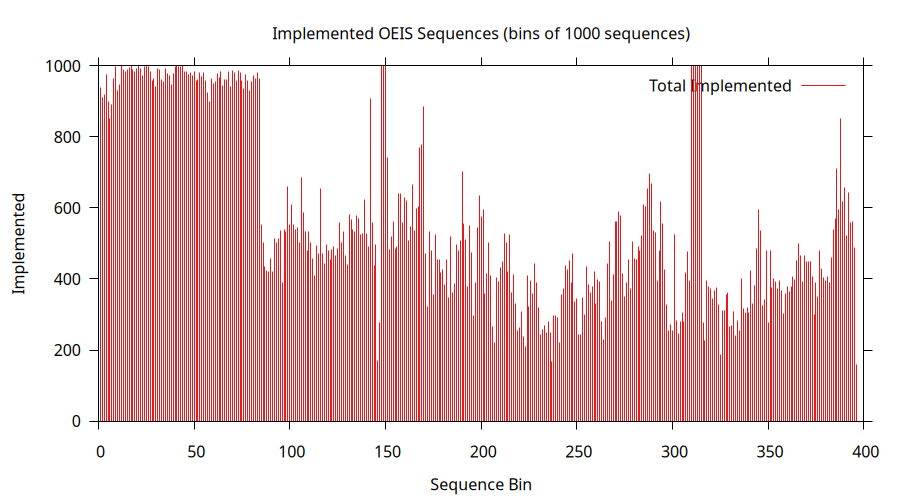
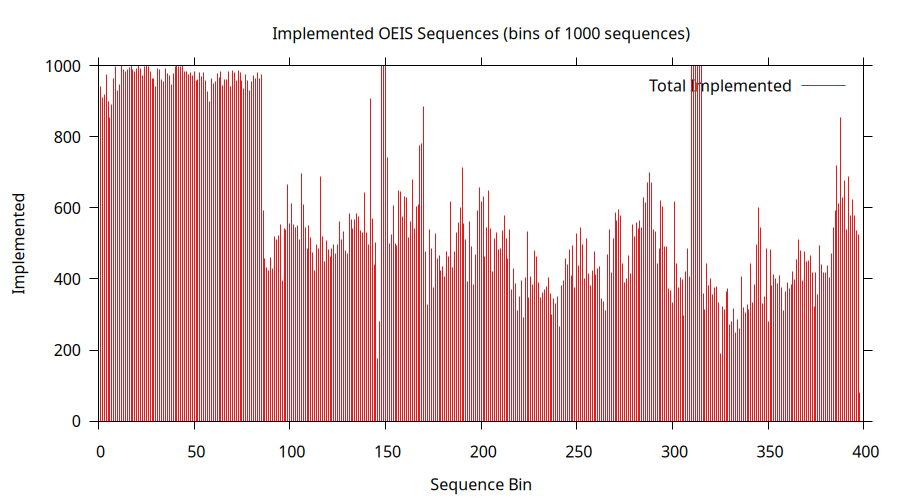
Sequences

diff --git a/src/irvine/oeis/a398/A398216.java b/src/irvine/oeis/a398/A398216.java
@@ -1,0 +1,20 @@
+package irvine.oeis.a398;
+
+import irvine.math.cr.CR;
+import irvine.math.cr.ComputableReals;
+import irvine.oeis.cons.DecimalExpansionSequence;
+
+/**
+ * A398216 allocated for Paolo Xausa.
+ * @author Sean A. Irvine
+ */
+public class A398216 extends DecimalExpansionSequence {
+
+  private static final CR PI8 = CR.PI.divide(8);
+
+  /** Construct the sequence. */
+  public A398216() {
+    super(0, ComputableReals.SINGLETON.acos(CR.TWO.add(CR.THREE.divide(CR.SQRT2)).subtract(PI8.cos().multiply(3)).subtract(PI8.sin())));
+  }
+}
+

diff --git a/src/irvine/oeis/a398/A398218.java b/src/irvine/oeis/a398/A398218.java
@@ -1,0 +1,18 @@
+package irvine.oeis.a398;
+
+import irvine.math.cr.CR;
+import irvine.math.cr.ComputableReals;
+import irvine.oeis.cons.DecimalExpansionSequence;
+
+/**
+ * A398218 allocated for Paolo Xausa.
+ * @author Sean A. Irvine
+ */
+public class A398218 extends DecimalExpansionSequence {
+
+  /** Construct the sequence. */
+  public A398218() {
+    super(1, ComputableReals.SINGLETON.acos(CR.FIVE.subtract(CR.SQRT2.multiply(6)).subtract(CR.SQRT2.multiply(79).add(130).sqrt().multiply(2)).divide(47)));
+  }
+}
+

diff --git a/src/irvine/oeis/a398/A398210.java b/src/irvine/oeis/a398/A398210.java
@@ -1,0 +1,18 @@
+package irvine.oeis.a398;
+
+import irvine.math.cr.CR;
+import irvine.math.polynomial.Polynomial;
+import irvine.oeis.cons.PolynomialRootExpansionSequence;
+
+/**
+ * A398210 allocated for Paolo Xausa.
+ * @author Sean A. Irvine
+ */
+public class A398210 extends PolynomialRootExpansionSequence {
+
+  /** Construct the sequence. */
+  public A398210() {
+    super(2, Polynomial.create(8192, 0, -2138112, 0, 79646976, 0, -26827200, 0, 6561), CR.valueOf(63), CR.valueOf(64));
+  }
+}
+

diff --git a/src/irvine/oeis/a398/A398211.java b/src/irvine/oeis/a398/A398211.java
@@ -1,0 +1,17 @@
+package irvine.oeis.a398;
+
+import irvine.math.cr.CR;
+import irvine.math.polynomial.Polynomial;
+import irvine.oeis.cons.PolynomialRootExpansionSequence;
+
+/**
+ * A398211 allocated for Paolo Xausa.
+ * @author Sean A. Irvine
+ */
+public class A398211 extends PolynomialRootExpansionSequence {
+
+  /** Construct the sequence. */
+  public A398211() {
+    super(2, Polynomial.create(-197132288, 0, 16777216, 0, 1404928, 0, -9216, 0, 1), CR.valueOf(95), CR.valueOf(96));
+  }
+}

diff --git a/src/irvine/oeis/a398/A398214.java b/src/irvine/oeis/a398/A398214.java
@@ -1,0 +1,17 @@
+package irvine.oeis.a398;
+
+import irvine.math.cr.CR;
+import irvine.math.polynomial.Polynomial;
+import irvine.oeis.cons.PolynomialRootExpansionSequence;
+
+/**
+ * A398214 allocated for Paolo Xausa.
+ * @author Sean A. Irvine
+ */
+public class A398214 extends PolynomialRootExpansionSequence {
+
+  /** Construct the sequence. */
+  public A398214() {
+    super(2, Polynomial.create(1, 0, -104, 0, 660, 0, -336, 0, 2), CR.valueOf(12), CR.valueOf(13));
+  }
+}

diff --git a/src/irvine/oeis/a398/A398212.java b/src/irvine/oeis/a398/A398212.java
@@ -1,0 +1,18 @@
+package irvine.oeis.a398;
+
+import irvine.math.cr.CR;
+import irvine.math.polynomial.Polynomial;
+import irvine.oeis.cons.PolynomialRootExpansionSequence;
+
+/**
+ * A398212 allocated for Paolo Xausa.
+ * @author Sean A. Irvine
+ */
+public class A398212 extends PolynomialRootExpansionSequence {
+
+  /** Construct the sequence. */
+  public A398212() {
+    super(1, Polynomial.create(-1, 0, 96, 0, 15040, 0, -101376, 0, 24064), CR.TWO, CR.THREE);
+  }
+}
+

diff --git a/src/irvine/oeis/a398/A398213.java b/src/irvine/oeis/a398/A398213.java
@@ -1,0 +1,18 @@
+package irvine.oeis.a398;
+
+import irvine.math.cr.CR;
+import irvine.math.polynomial.Polynomial;
+import irvine.oeis.cons.PolynomialRootExpansionSequence;
+
+/**
+ * A398213 allocated for Paolo Xausa.
+ * @author Sean A. Irvine
+ */
+public class A398213 extends PolynomialRootExpansionSequence {
+
+  /** Construct the sequence. */
+  public A398213() {
+    super(1, Polynomial.create(-1, 0, 32, 0, 768, 0, -2560, 0, 512), CR.TWO, CR.THREE);
+  }
+}
+

diff --git a/src/irvine/oeis/a398/A398215.java b/src/irvine/oeis/a398/A398215.java
@@ -1,0 +1,18 @@
+package irvine.oeis.a398;
+
+import irvine.math.cr.CR;
+import irvine.math.polynomial.Polynomial;
+import irvine.oeis.cons.PolynomialRootExpansionSequence;
+
+/**
+ * A398215 allocated for Paolo Xausa.
+ * @author Sean A. Irvine
+ */
+public class A398215 extends PolynomialRootExpansionSequence {
+
+  /** Construct the sequence. */
+  public A398215() {
+    super(1, Polynomial.create(1, -8, 20, -16, 2), CR.SIX, CR.SEVEN);
+  }
+}
+

diff --git a/src/irvine/oeis/a398/A398217.java b/src/irvine/oeis/a398/A398217.java
@@ -1,0 +1,17 @@
+package irvine.oeis.a398;
+
+import irvine.math.cr.CR;
+import irvine.math.cr.ComputableReals;
+import irvine.oeis.cons.DecimalExpansionSequence;
+
+/**
+ * A398217 allocated for Paolo Xausa.
+ * @author Sean A. Irvine
+ */
+public class A398217 extends DecimalExpansionSequence {
+
+  /** Construct the sequence. */
+  public A398217() {
+    super(1, ComputableReals.SINGLETON.acos(CR.HALF.subtract(CR.PI.divide(8).cos())));
+  }
+}
